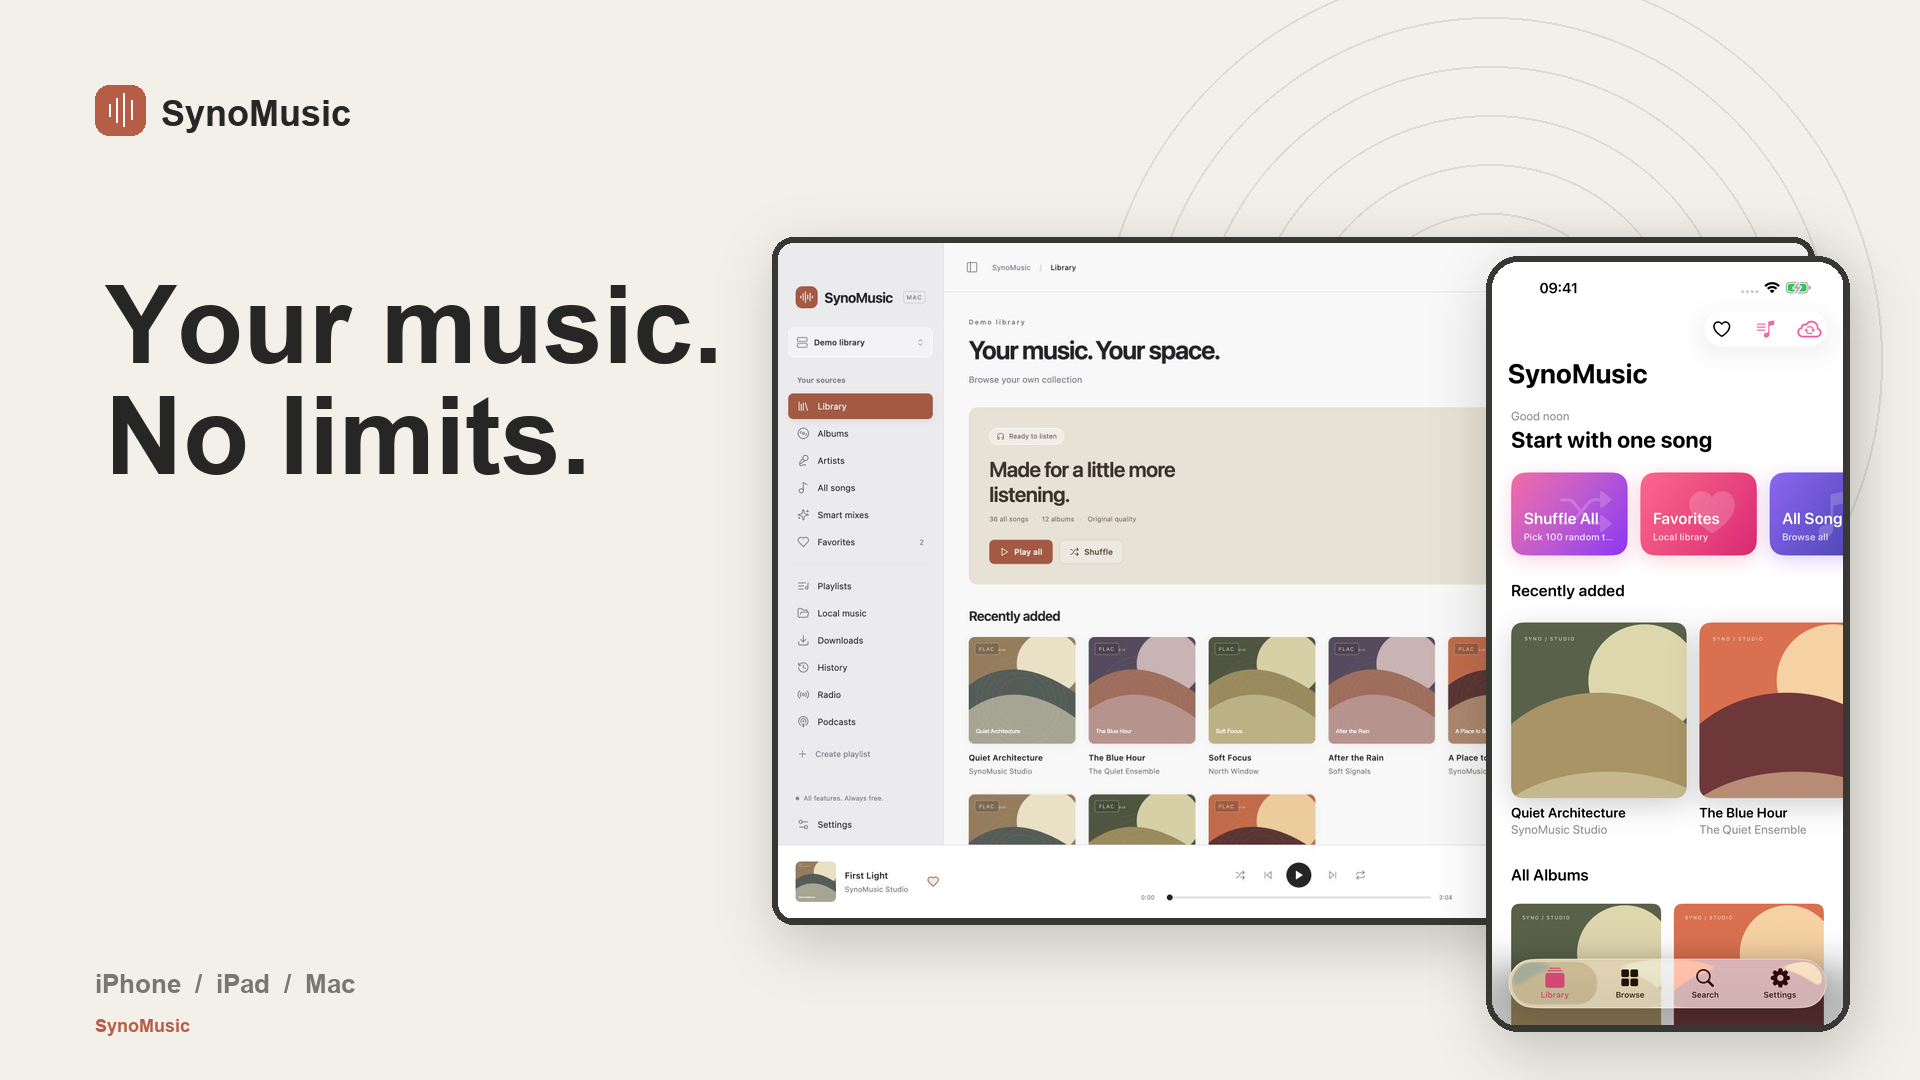
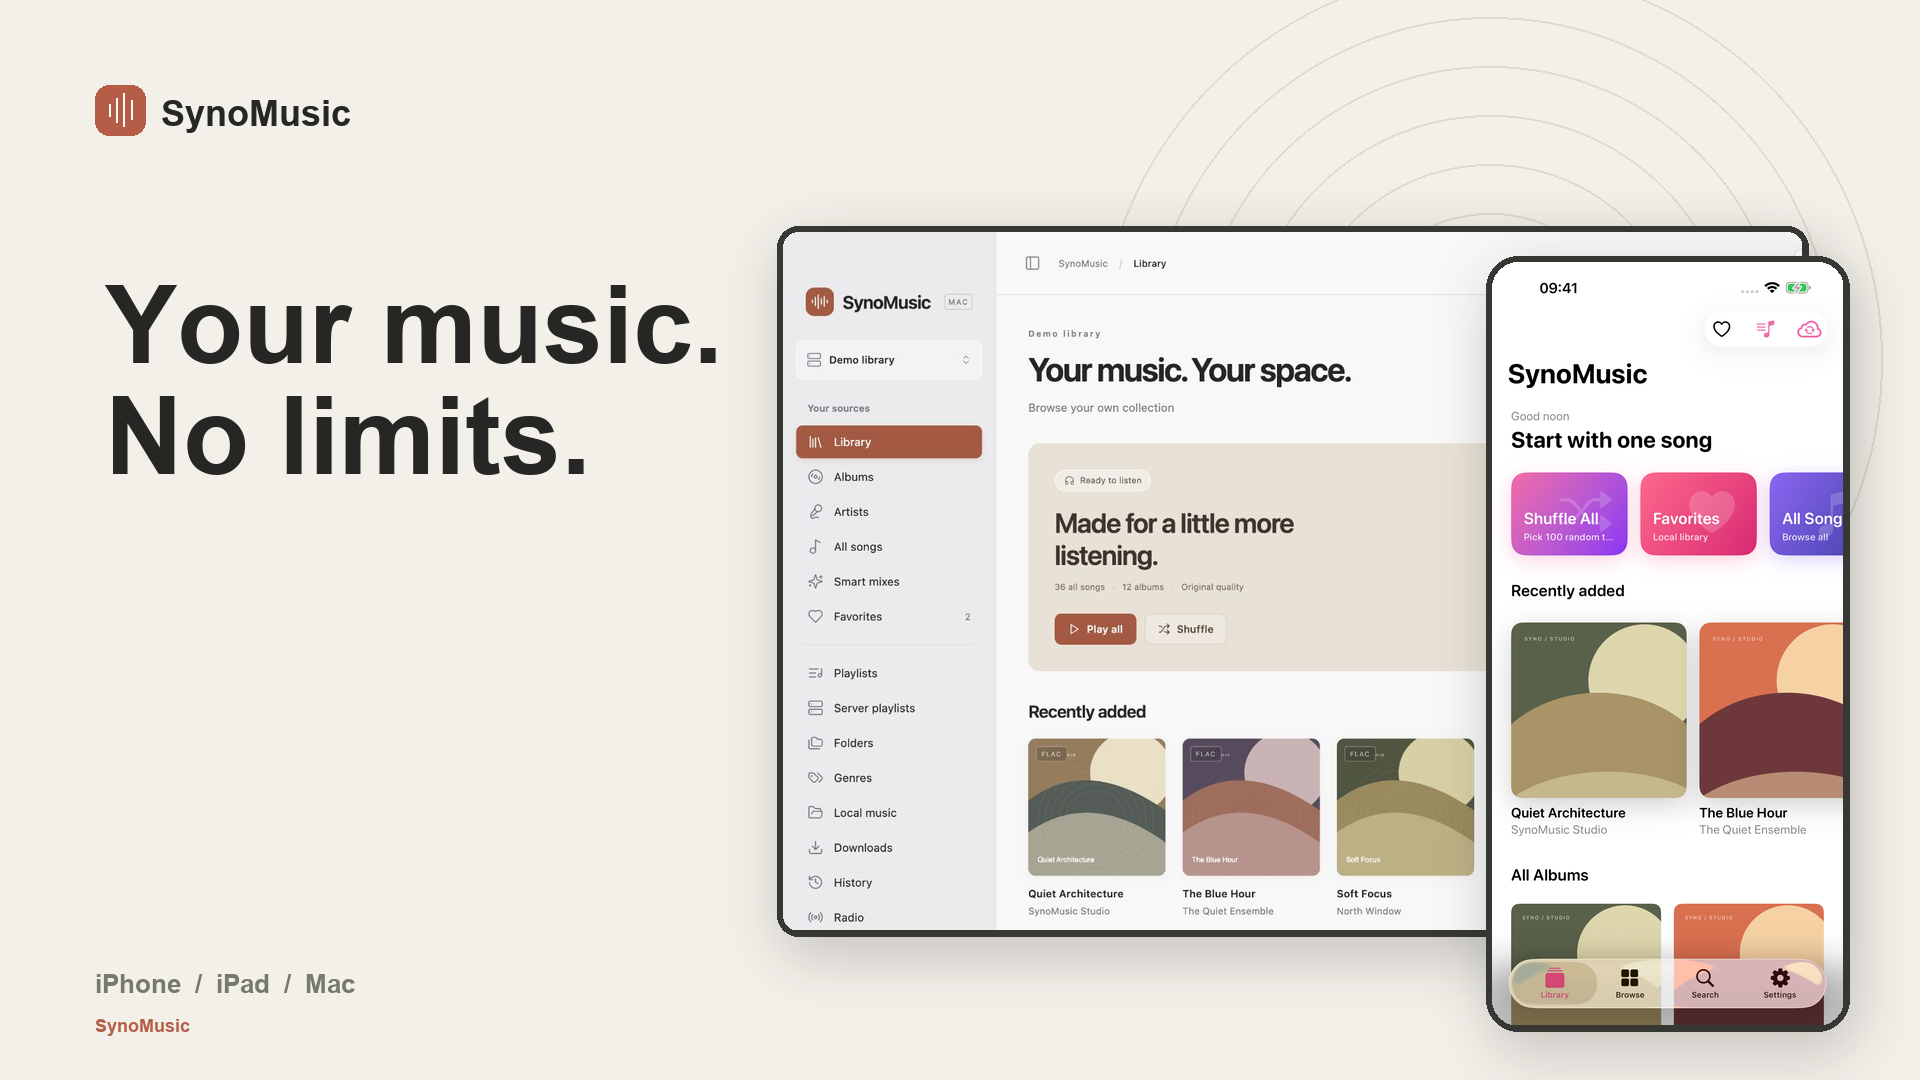
Fix clean Windows builds and refresh desktop marketing images

Changed region(s): [[0.375, 0.1833, 0.9375, 0.8861]]

diff --git a/marketing/render_assets.py b/marketing/render_assets.py
@@ -198,7 +198,7 @@ def render_store(source: Path, locale: str, metadata: dict, kind: str,
 
 # 生成多端宣传图，Mac 与手机均来自真实界面截图。
 def render_promo(phone: Path, mac: Path, locale: str, metadata: dict,
-                 output: Path, social: bool = False) -> Path:
+                 output: Path, social: bool = False, desktop_name: str = "Mac") -> Path:
     width, height = (1200, 630) if social else (1920, 1080)
     scale = width / 1920
     image = Image.new("RGBA", (width, height), PAPER)
@@ -209,7 +209,7 @@ def render_promo(phone: Path, mac: Path, locale: str, metadata: dict,
                            int(660 * scale), INK, output)
     image.alpha_composite(title, (margin, int(276 * scale)))
     draw = ImageDraw.Draw(image)
-    draw.text((margin, height - int(111 * scale)), "iPhone  /  iPad  /  Mac",
+    draw.text((margin, height - int(111 * scale)), f"iPhone  /  iPad  /  {desktop_name}",
               font=font("en-US", max(18, int(26 * scale))), fill=MUTED)
     draw.text((margin, height - int(65 * scale)), "SynoMusic",
               font=font("en-US", max(13, int(18 * scale))), fill=ACCENT)
@@ -222,7 +222,7 @@ def render_promo(phone: Path, mac: Path, locale: str, metadata: dict,
                  (width - phone_width - int(71 * scale), height - phone_height - int(41 * scale),
                   phone_width, phone_height),
                  radius=max(12, int(26 * scale)), frame=max(3, int(6 * scale)))
-    filename = "social.png" if social else "overview.png"
+    filename = ("windows-" if desktop_name == "Windows" else "") + ("social.png" if social else "overview.png")
     target = output / "Promotional" / locale / filename
     save_png(image, target)
     return target
@@ -304,6 +304,10 @@ def main() -> None:
         if phone and mac:
             paths.append(render_promo(phone, mac, locale, row, args.output))
             paths.append(render_promo(phone, mac, locale, row, args.output, social=True))
+        windows = find_raw(args.raw_root, locale, row, "windows-library.png")
+        if phone and windows:
+            paths.append(render_promo(phone, windows, locale, row, args.output, desktop_name="Windows"))
+            paths.append(render_promo(phone, windows, locale, row, args.output, social=True, desktop_name="Windows"))
     sheet = contact_sheet(paths, args.output)
     archive = archive_assets(paths, sheet, args.output) if args.archive and not missing else None
     print(json.dumps({"complete": not missing, "locales": len(locales), "images": len(paths),
